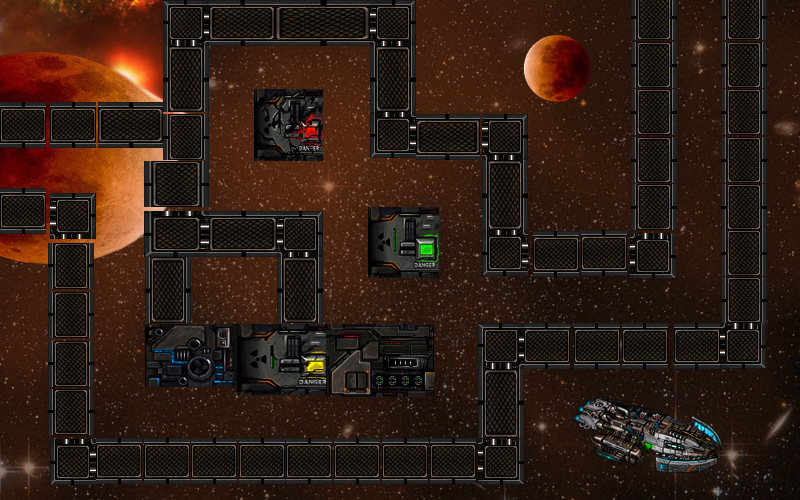
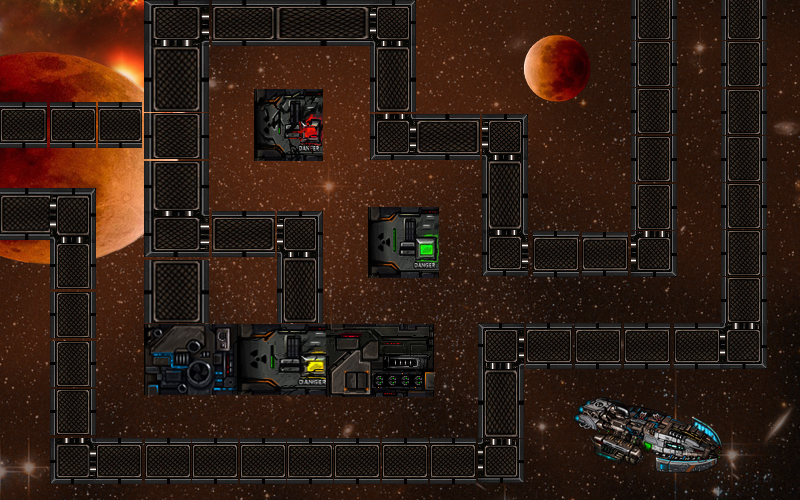
version synchronization

diff --git a/scripts/game.js b/scripts/game.js
@@ -68,7 +68,7 @@ var game = {
                     nextpoint: 0,
                     creepFrameCount: 0,
                     speed: 1,
-                    rotation : 0,
+                    rotation: 0,
                     slowfor: 0,
                     hp: game.hp,
                     _hp: game.hp,
@@ -84,49 +84,64 @@ var game = {
         ///////////////////////////////////////////////////////////////////////////////
         // map
         ///////////////////////////////////////////////////////////////////////////////
-        /*        canvas.fillStyle = "black";
-                canvas.fillRect(0, 0, 800, 500);*/
 
 
-        //TODO - Extrackt this in method
+
+        //TODO - Extrackt this in method!!!!!!!!
         if (game.map.name == 'Loopy') {
             canvas.drawImage(backgroundImage1, 0, 0, 800, 500);
+
+            canvas.drawImage(backgroundImage1, 0, 0, 800, 500);
+
+            var map = game.map.slice(1),
+                start = game.map[0];
+
+            canvas.beginPath();
+            canvas.moveTo(start.x, start.y);
+            map.forEach(function(cur, i) {
+                canvas.lineTo(cur.x, cur.y);
+            });
+            canvas.stroke();
+            canvas.lineWidth = 50;
+
+            var pat = canvas.createPattern(floorPatternMap1, "repeat");
+            canvas.strokeStyle = pat;
+
 
         } else if (game.map.name == 'Backtrack') {
             canvas.drawImage(backgroundImage2, 0, 0, 800, 500);
 
+            var map = game.map.slice(1),
+                start = game.map[0];
+
+            canvas.beginPath();
+            canvas.moveTo(start.x, start.y);
+            map.forEach(function(cur, i) {
+                canvas.lineTo(cur.x, cur.y);
+            });
+            canvas.stroke();
+            canvas.lineWidth = 50;
+
+            var pat = canvas.createPattern(floorPatternMap2, "repeat");
+            canvas.strokeStyle = pat;
+
         } else if (game.map.name == 'Dash') {
             canvas.drawImage(backgroundImage3, 0, 0, 800, 500);
 
+            var map = game.map.slice(1),
+                start = game.map[0];
+
+            canvas.beginPath();
+            canvas.moveTo(start.x, start.y);
+            map.forEach(function(cur, i) {
+                canvas.lineTo(cur.x, cur.y);
+            });
+            canvas.stroke();
+            canvas.lineWidth = 50;
+
+            var pat = canvas.createPattern(floorPatternMap3, "repeat");
+            canvas.strokeStyle = pat;
         }
-
-        var map = game.map.slice(1),
-            start = game.map[0];
-
-        /*canvas.lineWidth = 40;
-        canvas.strokeStyle = "blue";*/
-        canvas.beginPath();
-        canvas.moveTo(start.x, start.y);
-        map.forEach(function(cur, i) {
-            canvas.lineTo(cur.x, cur.y);
-        });
-        canvas.stroke();
-        canvas.lineWidth = 50;
-        // canvas.strokeStyle = "rgba(190, 190, 190, 1.0)";
-        //canvas.strokeStyle = "black";
-        var pat = canvas.createPattern(floorPat, "repeat");
-        canvas.strokeStyle = pat;
-
-
-
-
-        /*      var labirintTieImage = new Image();
-
-                labirintTieImage.onload = function() {
-                    canvas.drawImage(labirintTieImage, 0, 0, 800, 500);
-                };
-
-                labirintTieImage.src = 'images/labirint/tile-1-center.jpg';*/
 
 
         canvas.beginPath();
@@ -147,7 +162,7 @@ var game = {
 
             if (burning) {
                 creep.hp -= 30;
-                
+
             }
 
             if (creep.hp <= 0) {
@@ -162,7 +177,7 @@ var game = {
                     y: creep.y,
                     frame: 7
                 });
-                
+
                 delete a[i];
 
 
@@ -187,8 +202,8 @@ var game = {
                 if (MoveObject(creep, {
                         x: waypoint.x + 18 + creep.offset,
                         y: waypoint.y + 18 + creep.offset
-                }, creep.speed)) {
-                    creep.nextpoint+=1;
+                    }, creep.speed)) {
+                    creep.nextpoint += 1;
                     //rotate the creep to follow the path
                     if (game.map[creep.nextpoint] !== undefined) {
                         currY = game.map[creep.nextpoint].y;
@@ -196,30 +211,24 @@ var game = {
 
                         if (currY > waypoint.y) {
                             creep.rotation = 1.570796326795;
-                        }
-
-                        else if (currY < waypoint.y) {
+                        } else if (currY < waypoint.y) {
                             creep.rotation = -1.570796326795;
-                        }
-                        else if (currX < waypoint.x) {
+                        } else if (currX < waypoint.x) {
                             creep.rotation = 3.14;
-                        }
-                        else {
+                        } else {
                             creep.rotation = 0;
                         }
-                    }
-                    else {
+                    } else {
                         creep.rotation = 0;
                     }
-                    
+
                     ///left like this till I fix
                     //creep.rotation = 0;
                 }
-               // console.log('frame is ' + creep.creepFrameCount)
+                // console.log('frame is ' + creep.creepFrameCount)
                 if (creep.creepFrameCount >= 0 && creep.creepFrameCount < 6) {
                     creep.creepFrameCount++;
-                }
-                else {
+                } else {
                     creep.creepFrameCount = 0;
                 }
 
@@ -236,8 +245,8 @@ var game = {
                                 layer.add(creep);
                                 stage.add(layer);*/
                 canvas.save();
-                canvas.translate(creep.x-23, creep.y-23);
-               // console.log('rotation is ' + creep.rotation)
+                canvas.translate(creep.x - 23, creep.y - 23);
+                // console.log('rotation is ' + creep.rotation)
                 canvas.rotate(creep.rotation);
                 canvas.drawImage(creepImg, creep.creepFrameCount * 46, 0, 46, 46, -23, -23, 46, 46);
                 canvas.restore();

diff --git a/index.html b/index.html
@@ -149,9 +149,9 @@
             </div>
         </div>
         <img src="images/creeps/spaceship.png" id="creepImageId" alt="">
-        <img src="images/background/backgroundImage1.png" id="backgroundImageId1" alt="">
+        <img src="images/background/backgroundImage1.jpg" id="backgroundImageId1" alt="">
         <img src="images/background/backgroundImage2.jpg" id="backgroundImageId2" alt="">
-        <img src="images/background/backgroundImage3.png" id="backgroundImageId3" alt="">
+        <img src="images/background/backgroundImage3.jpg" id="backgroundImageId3" alt="">
         <img src="images/effects/flame.png" id="mortar-flame" alt="">
     </div>
 

diff --git a/scripts/ui.js b/scripts/ui.js
@@ -272,8 +272,14 @@ var backgroundImage3 = document.getElementById("backgroundImageId3");
 var boom = [];
 
 //for the map path 
-var floorPat = new Image();
-floorPat.src = 'images/labirint/stars2.jpg';
+var floorPatternMap1 = new Image();
+floorPatternMap1.src = 'images/labirint/map1-snow-floor.jpg';
+
+var floorPatternMap2 = new Image();
+floorPatternMap2.src = 'images/labirint/map2-space-floor.jpg';
+
+var floorPatternMap3 = new Image();
+floorPatternMap3.src = 'images/labirint/map3-desert-floor.jpg';
 
 $("pages-canvas").addEventListener("mousemove", function(evt) {
     var selection = game.selection;
